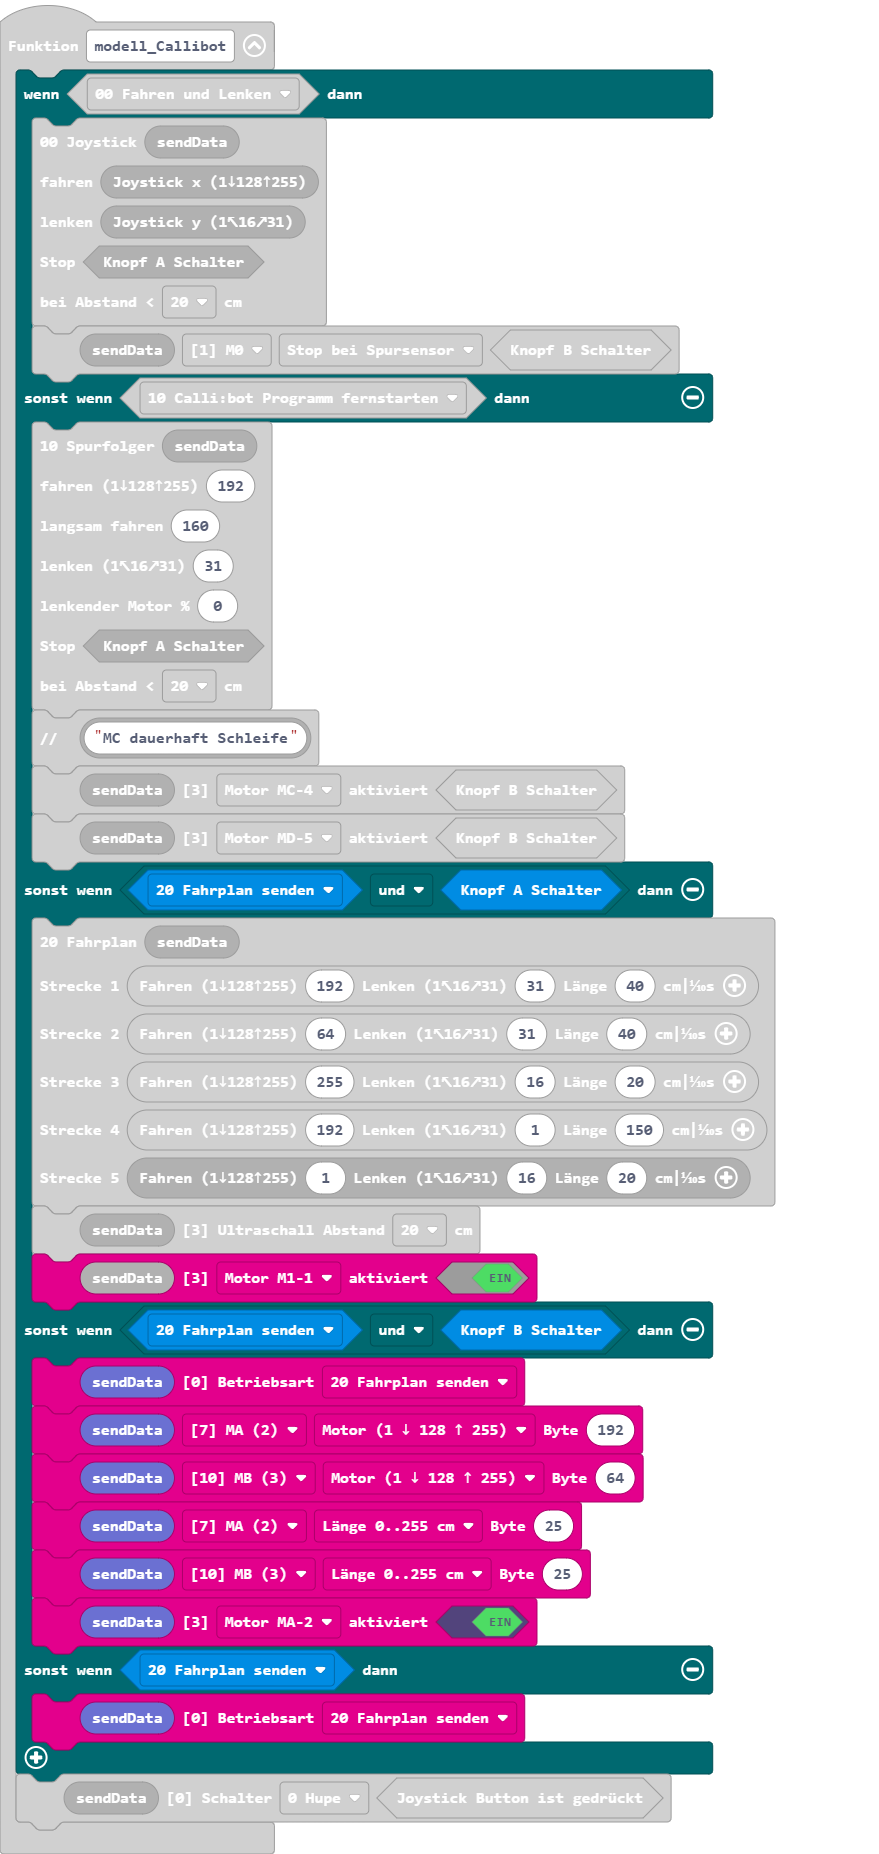
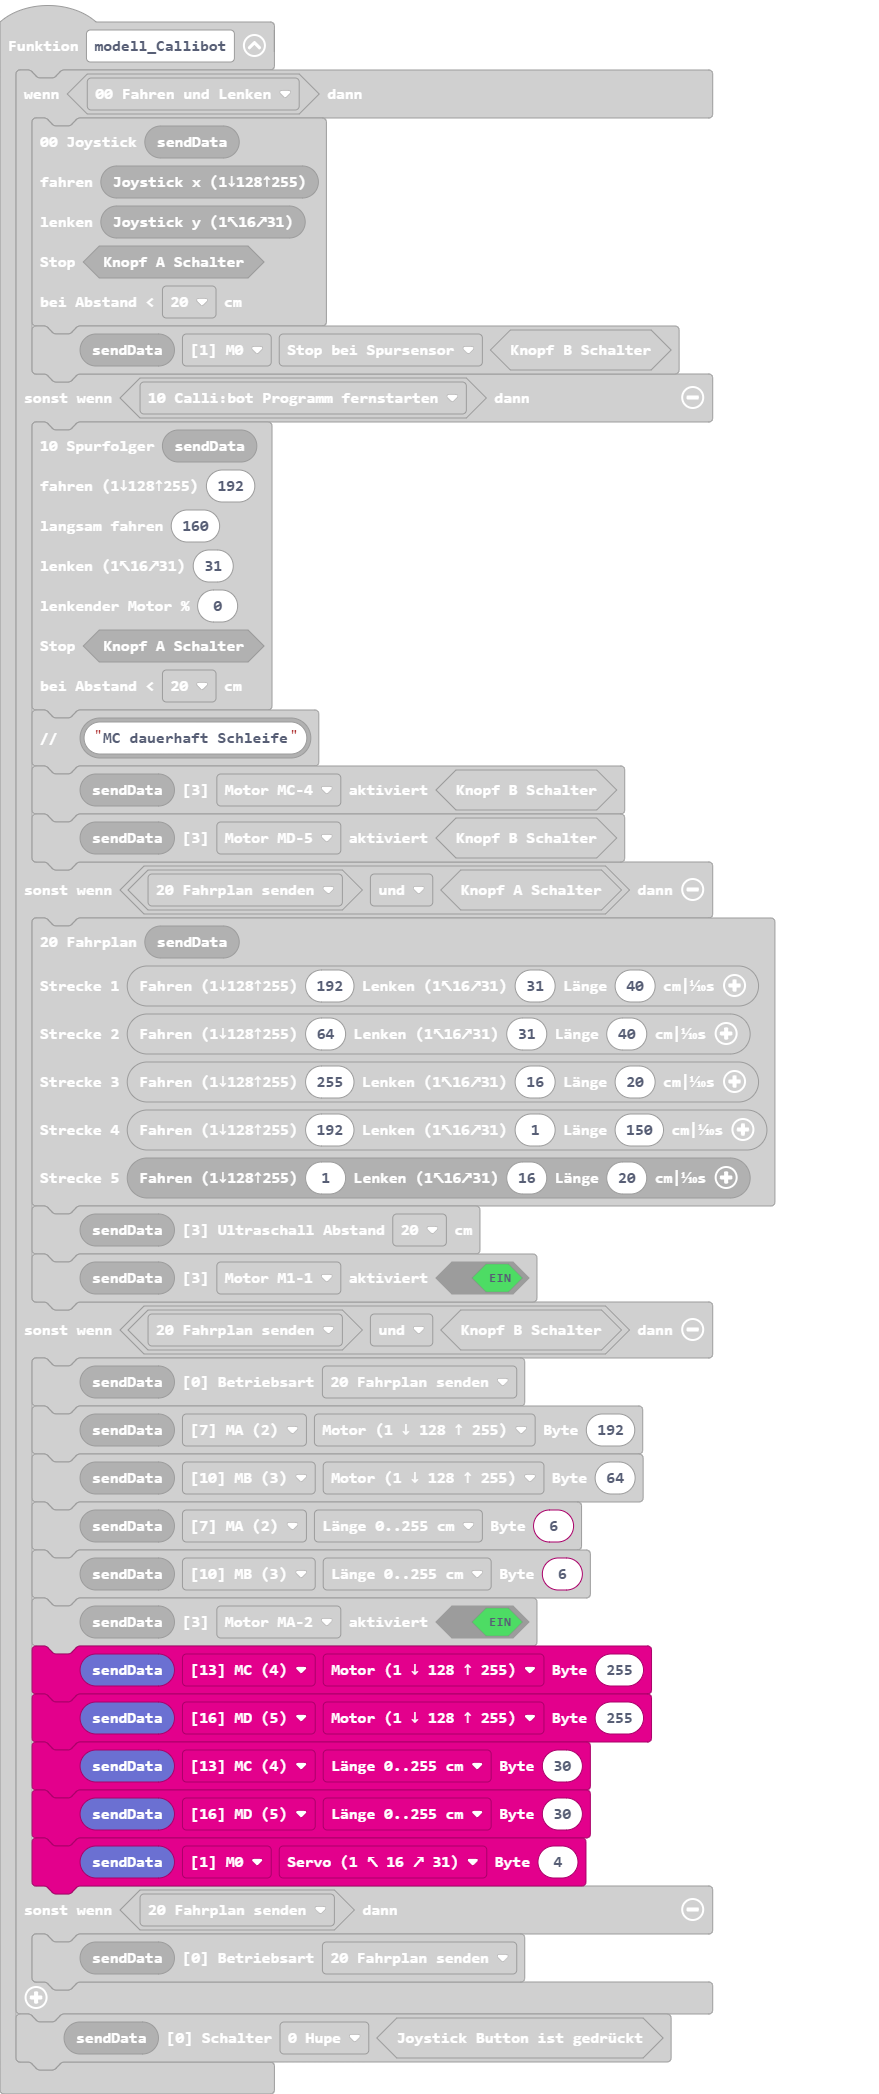
Aktualisiere main.blocks, main.ts

diff --git a/main.ts b/main.ts
@@ -36,9 +36,14 @@ function modell_Callibot () {
         btf.setBetriebsart(btf.btf_sendBuffer19(), btf.e0Betriebsart.p2Fahrplan)
         btf.setByte(btf.btf_sendBuffer19(), btf.eBufferPointer.ma, btf.eBufferOffset.b0_Motor, 192)
         btf.setByte(btf.btf_sendBuffer19(), btf.eBufferPointer.mb, btf.eBufferOffset.b0_Motor, 64)
-        btf.setByte(btf.btf_sendBuffer19(), btf.eBufferPointer.ma, btf.eBufferOffset.b2_Fahrstrecke, 25)
-        btf.setByte(btf.btf_sendBuffer19(), btf.eBufferPointer.mb, btf.eBufferOffset.b2_Fahrstrecke, 25)
+        btf.setByte(btf.btf_sendBuffer19(), btf.eBufferPointer.ma, btf.eBufferOffset.b2_Fahrstrecke, 6)
+        btf.setByte(btf.btf_sendBuffer19(), btf.eBufferPointer.mb, btf.eBufferOffset.b2_Fahrstrecke, 6)
         btf.setaktiviert(btf.btf_sendBuffer19(), btf.e3aktiviert.ma, true)
+        btf.setByte(btf.btf_sendBuffer19(), btf.eBufferPointer.mc, btf.eBufferOffset.b0_Motor, 255)
+        btf.setByte(btf.btf_sendBuffer19(), btf.eBufferPointer.md, btf.eBufferOffset.b0_Motor, 255)
+        btf.setByte(btf.btf_sendBuffer19(), btf.eBufferPointer.mc, btf.eBufferOffset.b2_Fahrstrecke, 30)
+        btf.setByte(btf.btf_sendBuffer19(), btf.eBufferPointer.md, btf.eBufferOffset.b2_Fahrstrecke, 30)
+        btf.setByte(btf.btf_sendBuffer19(), btf.eBufferPointer.m0, btf.eBufferOffset.b1_Servo, 4)
     } else if (sender.isFunktion(sender.eFunktion.m1abcd_fahrplan)) {
         btf.setBetriebsart(btf.btf_sendBuffer19(), btf.e0Betriebsart.p2Fahrplan)
     }
